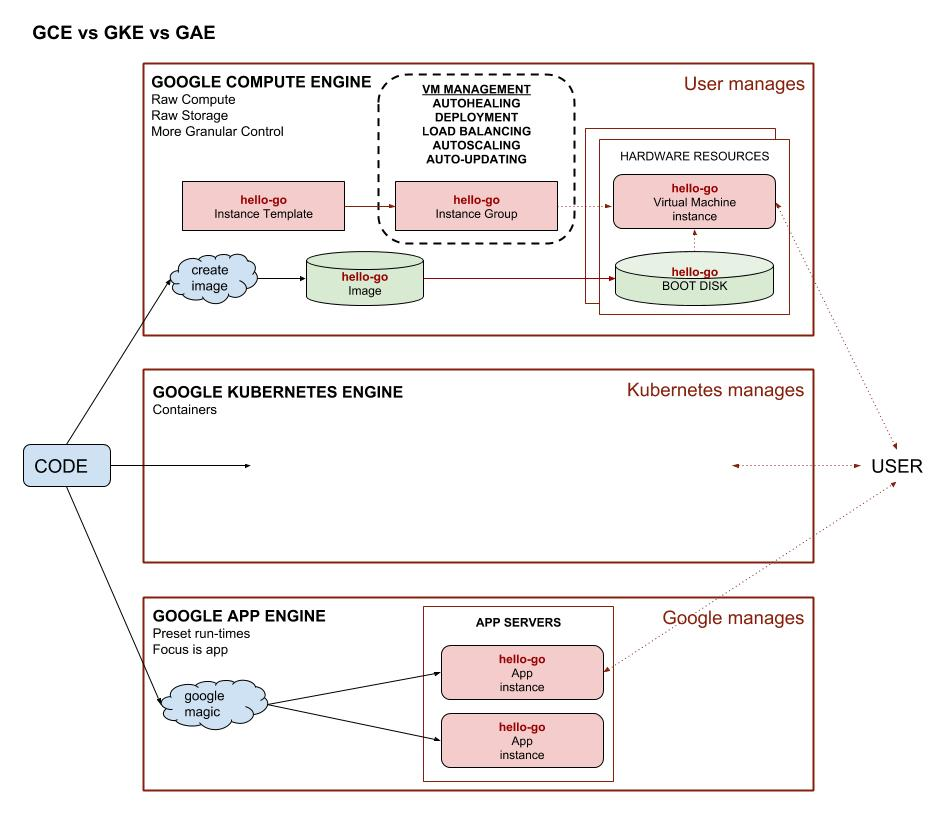
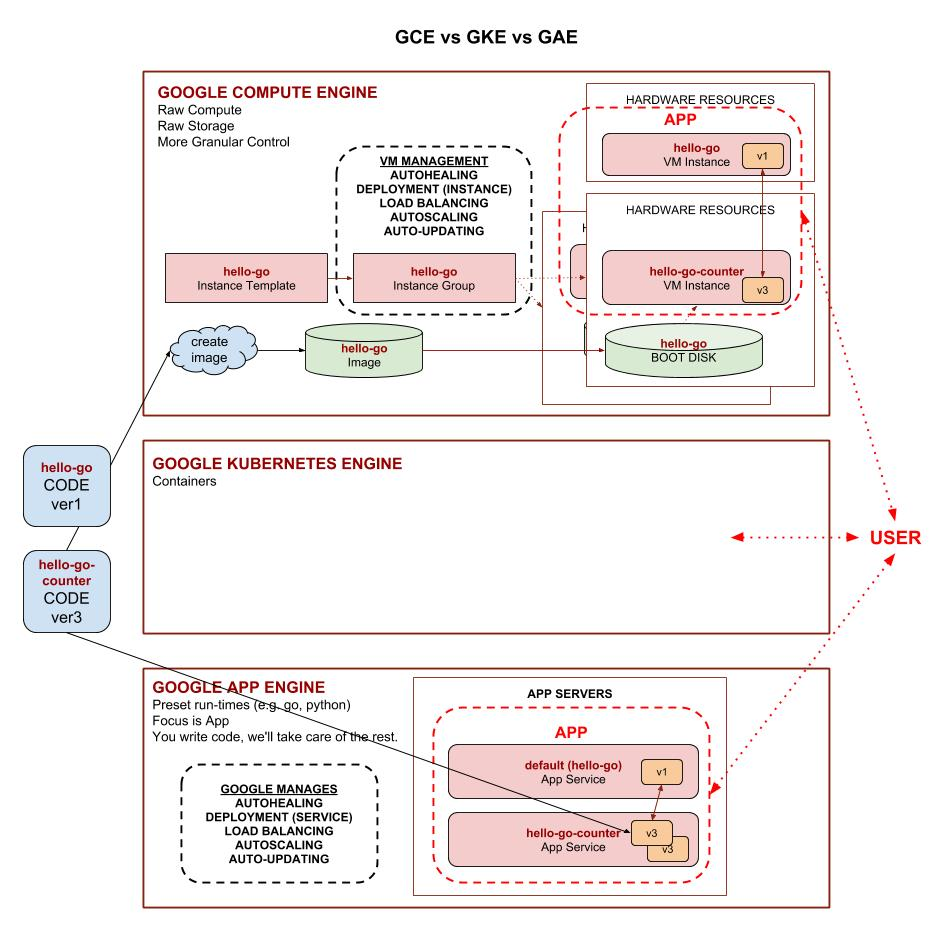
update gce gae gke pic

Changed region(s): [[0.0, 0.0305, 0.981, 1.0], [0.0307, 0.0305, 0.2452, 0.061], [0.7664, 0.5488, 0.797, 0.5793]]

diff --git a/software/platform-as-a-service/cloud-services-app/google-cloud-platform-cheat-sheet/google-app-engine.md b/software/platform-as-a-service/cloud-services-app/google-cloud-platform-cheat-sheet/google-app-engine.md
@@ -32,16 +32,20 @@ View my entire list of cheat sheets on
 
 What if you just don't really care about
 the guts or configurations (infrastructure) and just want to
-deploy and App.  Well `gae`
-is for you.  You bring the code, they handle the rest.
+deploy and App.  Well `gae` is for you.
+You bring the code, they handle the rest.
 
 `gae` is really used for web applications, and can be used with
 google firebase for mobile apps.
 
+An App Engine app is made up of a single application resource that consists of one or
+more services. Each service can be configured to use different runtimes and to operate
+with different performance settings. Within each service, you deploy versions
+of that service. Each version then runs within one or more instances, depending on
+how much traffic you configured it to handle.
+
 ![IMAGE -  gae-app-service-view - IMAGE](../../../../docs/pics/gae-app-service-view.jpg)
 
-On a side note, can `gae` run a service?  I would say yes.  But that's
-not really the point of `gae`.
 
 ## FREE RESOURCE (standard environment only)
 
@@ -188,6 +192,20 @@ handlers:
   script: auto
 ```
 
+You will have to get the go package,
+
+```bash
+go get google.golang.org/appengine
+```
+
+You also may have to,
+
+```bash
+sudo apt-get update
+sudo apt-get upgrade
+go get -u github.com/golang/protobuf/{proto,protoc-gen-go}
+```
+
 ### STEP 2 - TEST RUN ON YOUR LOCAL DEVELOPMENT SERVER
 
 Test on the local development server using google's Local
@@ -256,4 +274,8 @@ You can look at or pull the example I placed in my repo
 
 ## EXAMPLE 3 - LETS ADD A SERVICE
 
-Lets do something.
+Lets do something dynamic.  How about a Webpage that 
+displays a running count.
+
+You can look at or pull the example I placed in my repo
+[here](https://github.com/JeffDeCola/hello-go-deploy-gae/tree/master/example-03-app).

diff --git a/software/development/development-environments/virtualbox-cheat-sheet/README.md b/software/development/development-environments/virtualbox-cheat-sheet/README.md
@@ -142,3 +142,42 @@ Settings -> Network - Adapter -> Bridged Adapter.
 ```
 
 I did not explore this feature yet.
+
+## INCREASE YOUR VIDEO MEMORY TO 256MB
+
+```bash
+VBoxManage modifyvm "Name of VM" --vram 256
+"C:\Program Files\Oracle\VirtualBox\VBoxManage.exe"  modifyvm "Name of VM" --vram 256
+```
+
+## INCREASE THE SIZE OF YOUR VIRTUAL DISK
+
+Let's say you run `df -h` and you're running out of room.
+
+The increase is in MB, so if you want to increase 10GB or ~10,000MB
+you pick a number that is a power of 2. 2 to the power of 13 is 8192.
+2 to the power of 14 is 16384.  Lets use the latter.
+
+Step 1 - Make a backup (clone).
+
+Step 2 - Create new virtual Machine that is bigger.
+
+Step 3 - Find UUID of your old and new VM.
+
+```bash
+VBoxManage list hdds
+"C:\Program Files\Oracle\VirtualBox\VBoxManage.exe" list hdds
+```
+
+Step 4 - run VBoxManage clonemedium.
+
+```bash
+VBoxManage clonemedium <source-guid> <destinatin-guid> --existing
+"C:\Program Files\Oracle\VirtualBox\VBoxManage.exe" clonemedium b1e21e90-xxx 391354e8-xxx --existing
+```
+
+Step 5 - Download gparted-live*.iso
+
+Insert .iso into the new virtual machine and reboot it.
+Grow your partition and save changes.
+You may have to delete partitions (swap and /dev/sd2) to grow `/dev/sda1`.

diff --git a/software/infrastructure-as-a-service/cloud-services-compute/google-cloud-platform-cheat-sheet/google-stackdriver-monitoring.md b/software/infrastructure-as-a-service/cloud-services-compute/google-cloud-platform-cheat-sheet/google-stackdriver-monitoring.md
@@ -22,3 +22,10 @@ I believe this is always free.
 Full list of [free gcp services](https://cloud.google.com/free/docs/gcp-free-tier).
 
 
+# To install the Stackdriver monitoring agent:
+curl -sSO https://dl.google.com/cloudagents/install-monitoring-agent.sh
+sudo bash install-monitoring-agent.sh
+
+# To install the Stackdriver logging agent:
+curl -sSO https://dl.google.com/cloudagents/install-logging-agent.sh
+sudo bash install-logging-agent.sh

diff --git a/software/infrastructure-as-a-service/cloud-services-compute/google-cloud-platform-cheat-sheet/README.md b/software/infrastructure-as-a-service/cloud-services-compute/google-cloud-platform-cheat-sheet/README.md
@@ -233,6 +233,14 @@ See what components you have installed,
 gcloud components list
 ```
 
+You can add components as needed. For example,
+to add `gae` go extensions,
+
+```bash
+gcloud components update
+gcloud components install app-engine-go
+```
+
 Your configuration file is located `~/.boto`.
 
 To change your default region/zone,
